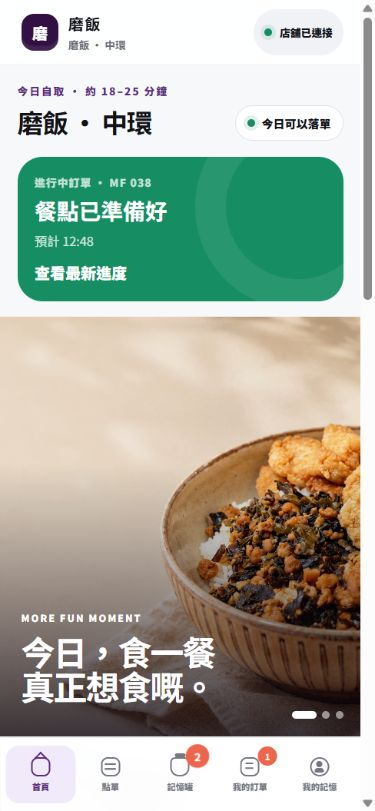
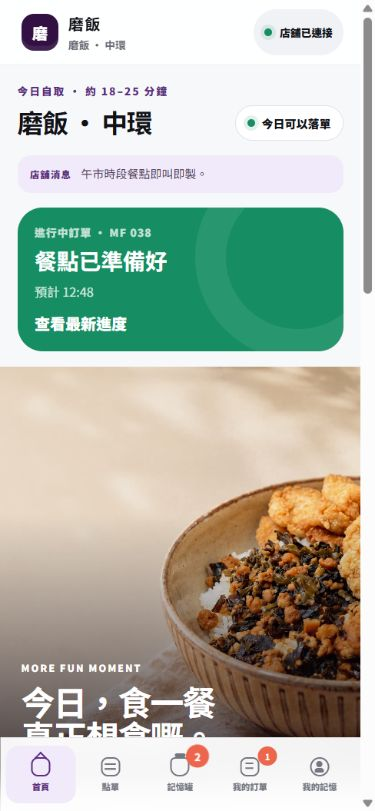
feat(customer): complete home notice and history controls

diff --git a/v2customer/src/styles.css b/v2customer/src/styles.css
@@ -105,6 +105,9 @@ img{display:block;max-width:100%}
 .availability-label{display:flex;align-items:center;gap:7px;background:var(--surface);border:1px solid var(--line);border-radius:999px;padding:9px 12px;font-size:12px;font-weight:850}
 .availability-label i{width:8px;height:8px;border-radius:50%;background:var(--danger)}
 .availability-label.open i{background:var(--green);box-shadow:0 0 0 4px rgba(22,141,99,.12)}
+.home-notice{display:flex;gap:10px;align-items:baseline;margin:-2px 0 15px;padding:11px 13px;border-radius:14px;background:var(--purple-soft)}
+.home-notice span{flex:0 0 auto;color:var(--purple);font-size:10px;font-weight:900;letter-spacing:.08em}
+.home-notice p{margin:0;color:#4f3b61;font-size:12px;line-height:1.45}
 .current-order-spotlight{width:100%;border:0;border-radius:var(--radius-lg);padding:18px;text-align:left;background:var(--purple-deep);color:#fff;margin-bottom:16px;display:grid;gap:5px;position:relative;overflow:hidden}
 .current-order-spotlight:after{content:"";position:absolute;width:150px;height:150px;border:32px solid rgba(255,255,255,.08);border-radius:50%;right:-60px;top:-55px}
 .current-order-spotlight span{font-size:11px;font-weight:850;letter-spacing:.08em;opacity:.74}
@@ -317,7 +320,7 @@ button:hover .product-media img{transform:scale(1.025)}
 .detail-row{display:flex;justify-content:space-between;border-top:1px solid var(--line);padding-top:13px}
 .history-card{background:var(--surface);border-radius:var(--radius-md);padding:15px;display:grid;grid-template-columns:58px 1fr;gap:12px}
 .history-date{border-right:1px solid var(--line);display:grid;align-content:center}.history-date strong{font-size:25px}.history-date span{font-size:9px;color:var(--muted)}
-.history-copy{display:grid;gap:4px;min-width:0}.history-copy small,.history-copy span{color:var(--muted)}.history-copy strong{font-size:16px;overflow-wrap:anywhere}.history-card .action-button{grid-column:1/-1}
+.history-copy{display:grid;gap:4px;min-width:0}.history-copy small,.history-copy span{color:var(--muted)}.history-copy strong{font-size:16px;overflow-wrap:anywhere}.history-actions{grid-column:1/-1;display:grid;grid-template-columns:auto 1fr;gap:8px}.history-actions>button:not(.action-button){border:0;background:transparent;color:var(--muted);min-height:44px;padding:0 10px;font-weight:800}.history-view-feedback{display:flex;align-items:center;justify-content:space-between;gap:12px;background:var(--green-soft);color:#285a47;border-radius:14px;padding:11px 13px;margin-bottom:10px;font-size:11px}.history-view-feedback button{border:0;background:transparent;color:var(--green);min-height:40px;font-weight:900}
 
 .member-page{padding-top:0}
 .member-hero{margin:0 -18px 28px;padding:44px 20px 26px;background:var(--purple-deep);color:#fff;min-height:320px;position:relative;overflow:hidden;display:flex;flex-direction:column;justify-content:flex-end}
@@ -371,7 +374,7 @@ button:hover .product-media img{transform:scale(1.025)}
 @keyframes skeleton{0%,100%{opacity:.46}50%{opacity:1}}
 
 @media(min-width:720px){
-  .page{padding:34px 28px 80px}.home-page{padding-top:24px}.app-header{height:74px}.collapsing-header{top:74px;margin:0 -28px;padding-left:28px;padding-right:28px}.hero-carousel{margin:0;border-radius:var(--radius-xl);overflow:hidden}.hero-slide{height:560px}.home-primary-action{margin:14px 0 0;border-radius:var(--radius-lg);grid-template-columns:1fr 260px;align-items:center}.featured-rail{margin:0;padding-left:0;padding-right:0}.featured-food{flex-basis:320px}.memory-ecosystem{margin-left:0;margin-right:0;border-radius:var(--radius-xl);padding:28px}.memory-ecosystem-grid{grid-template-columns:1.5fr repeat(3,1fr)}.memory-ecosystem-grid .ecosystem-jar{grid-column:auto}.product-list.layout-grid{grid-template-columns:repeat(3,minmax(0,1fr))}.product-card .product-media{height:220px}.cart-page{max-width:820px;margin:0 auto}.member-hero{margin-left:0;margin-right:0;border-radius:0 0 var(--radius-xl) var(--radius-xl);padding:54px 38px 34px}.seed-dashboard{grid-template-columns:1.2fr 1fr}.seed-history{grid-column:1/-1}.badge-collection{grid-template-columns:repeat(4,1fr)}.history-card{grid-template-columns:70px 1fr auto;align-items:center}.history-card .action-button{grid-column:auto}.dialog-surface{left:50%;right:auto;width:min(680px,100vw);transform:translate(-50%,var(--drag-y));border-radius:30px 30px 0 0}.dialog-surface[data-motion=origin]{transform:translate(calc(-50% + var(--origin-x)),var(--origin-y)) scale(var(--origin-scale))}.dialog-surface[data-motion=settled]{transform:translate(-50%,var(--drag-y))}.product-dialog.closing .dialog-surface{transform:translate(-50%,105%)}.product-sheet-hero{grid-template-columns:44% 1fr;align-items:stretch}.product-sheet-hero .product-media{height:300px}.product-sheet-copy{align-content:center}.choice-grid{grid-template-columns:repeat(3,1fr)}
+  .page{padding:34px 28px 80px}.home-page{padding-top:24px}.app-header{height:74px}.collapsing-header{top:74px;margin:0 -28px;padding-left:28px;padding-right:28px}.hero-carousel{margin:0;border-radius:var(--radius-xl);overflow:hidden}.hero-slide{height:560px}.home-primary-action{margin:14px 0 0;border-radius:var(--radius-lg);grid-template-columns:1fr 260px;align-items:center}.featured-rail{margin:0;padding-left:0;padding-right:0}.featured-food{flex-basis:320px}.memory-ecosystem{margin-left:0;margin-right:0;border-radius:var(--radius-xl);padding:28px}.memory-ecosystem-grid{grid-template-columns:1.5fr repeat(3,1fr)}.memory-ecosystem-grid .ecosystem-jar{grid-column:auto}.product-list.layout-grid{grid-template-columns:repeat(3,minmax(0,1fr))}.product-card .product-media{height:220px}.cart-page{max-width:820px;margin:0 auto}.member-hero{margin-left:0;margin-right:0;border-radius:0 0 var(--radius-xl) var(--radius-xl);padding:54px 38px 34px}.seed-dashboard{grid-template-columns:1.2fr 1fr}.seed-history{grid-column:1/-1}.badge-collection{grid-template-columns:repeat(4,1fr)}.history-card{grid-template-columns:70px 1fr auto;align-items:center}.history-actions{grid-column:auto}.dialog-surface{left:50%;right:auto;width:min(680px,100vw);transform:translate(-50%,var(--drag-y));border-radius:30px 30px 0 0}.dialog-surface[data-motion=origin]{transform:translate(calc(-50% + var(--origin-x)),var(--origin-y)) scale(var(--origin-scale))}.dialog-surface[data-motion=settled]{transform:translate(-50%,var(--drag-y))}.product-dialog.closing .dialog-surface{transform:translate(-50%,105%)}.product-sheet-hero{grid-template-columns:44% 1fr;align-items:stretch}.product-sheet-hero .product-media{height:300px}.product-sheet-copy{align-content:center}.choice-grid{grid-template-columns:repeat(3,1fr)}
 }
 
 @media(min-width:1060px){.product-list.layout-grid{grid-template-columns:repeat(4,minmax(0,1fr))}.bottom-navigation{border-radius:22px 22px 0 0;box-shadow:0 -10px 35px rgba(20,20,25,.08)}}

diff --git a/v2customer/src/components/customer-views.tsx b/v2customer/src/components/customer-views.tsx
@@ -97,6 +97,7 @@ export function HomeView({snapshot,connection,activeOrders,history,featuredProdu
       <div><span className="eyebrow">今日自取 · {store?.etaLabel??'時間待店舖確認'}</span><h1>{store?.storeName??'磨飯'}</h1></div>
       <div className={`availability-label ${store?.channelAvailable?'open':'closed'}`}><i aria-hidden="true"/><span>{store?store.channelAvailable?'今日可以落單':'今日暫停落單':'等待店舖資料'}</span></div>
     </header>
+    {store?.notice?<section className="home-notice" role="status"><span>店舖消息</span><p>{store.notice}</p></section>:null}
 
     {currentOrder?<button className={`current-order-spotlight stage-${currentOrder.stage.toLowerCase()}`} onClick={onOrders}>
       <span>進行中訂單 · {currentOrder.displayCode}</span>
@@ -197,10 +198,22 @@ export function CheckoutView({cart,quote,checkout,setCheckout,pending,actionStat
 export function OrdersView({segment,setSegment,active,history,expandedOrderId,setExpandedOrderId,onReorder,onBrowse,connection}:{
   segment:OrderSegment;setSegment:(v:OrderSegment)=>void;active:readonly CustomerOrderProjection[];history:readonly CustomerHistoryProjection[];expandedOrderId:string|null;setExpandedOrderId:(v:string|null)=>void;onReorder:(order:CustomerHistoryProjection)=>void;onBrowse:()=>void;connection:CustomerConnectionState;
 }){
+  const [hiddenHistoryIds,setHiddenHistoryIds]=useState<readonly string[]>([]);
+  const [lastHiddenId,setLastHiddenId]=useState<string|null>(null);
+  const visibleHistory=history.filter(order=>!hiddenHistoryIds.includes(order.orderId));
+  const hideFromView=(orderId:string)=>{
+    setHiddenHistoryIds(ids=>[...ids,orderId]);
+    setLastHiddenId(orderId);
+  };
+  const undoHide=()=>{
+    if(!lastHiddenId)return;
+    setHiddenHistoryIds(ids=>ids.filter(id=>id!==lastHiddenId));
+    setLastHiddenId(null);
+  };
   return <section className="page orders-page">
     <PageIntro kicker="我的訂單" title={segment==='current'?'而家去到邊？':'食過嘅，都收得好好'} detail={segment==='current'?'收到、接單、製作、可取餐與交收會按正式狀態逐步更新。':'歷史只係回憶；再次下單會按目前菜單重新驗證。'}/>
     <div className="segmented" role="tablist" aria-label="訂單類別"><button role="tab" aria-selected={segment==='current'} className={segment==='current'?'active':''} onClick={()=>setSegment('current')}>進行中</button><button role="tab" aria-selected={segment==='history'} className={segment==='history'?'active':''} onClick={()=>setSegment('history')}>歷史訂單</button></div>
-    {segment==='current'?(!active.length?<EmptyState title={connection==='NOT_CONNECTED'?'訂單服務尚未連接':'暫時冇進行中訂單'} detail={connection==='NOT_CONNECTED'?'連接後會顯示店舖正式接單同製作進度。':'點餐後，最新進度會喺呢度。'}><ActionButton onClick={onBrowse}>開始點餐</ActionButton></EmptyState>:<div className="active-order-list">{active.map(order=><OrderCard key={order.orderId} order={order} expanded={expandedOrderId===order.orderId} onToggle={()=>setExpandedOrderId(expandedOrderId===order.orderId?null:order.orderId)}/>)}</div>):(!history.length?<EmptyState title={connection==='NOT_CONNECTED'?'歷史訂單尚未連接':'仲未有完成訂單'} detail={connection==='NOT_CONNECTED'?'連接後只會顯示正式完成嘅訂單。':'完成第一張訂單後，就可以喺呢度再次回味。'}/>:<div className="history-list">{history.map(order=><article className="history-card" key={order.orderId}><div className="history-date"><strong>{new Date(order.completedAt).toLocaleDateString('zh-HK',{day:'2-digit'})}</strong><span>{new Date(order.completedAt).toLocaleDateString('zh-HK',{month:'short',year:'numeric'})}</span></div><div className="history-copy"><small>{order.displayCode}</small><strong>{order.itemSummary}</strong><span>{order.amountLabel??'歷史價格未提供'}</span></div><ActionButton variant="secondary" disabled={!order.reorderEligible} onClick={()=>onReorder(order)}>{order.reorderEligible?'再次下單':'目前不可重建'}</ActionButton></article>)}</div>)}
+    {segment==='current'?(!active.length?<EmptyState title={connection==='NOT_CONNECTED'?'訂單服務尚未連接':'暫時冇進行中訂單'} detail={connection==='NOT_CONNECTED'?'連接後會顯示店舖正式接單同製作進度。':'點餐後，最新進度會喺呢度。'}><ActionButton onClick={onBrowse}>開始點餐</ActionButton></EmptyState>:<div className="active-order-list">{active.map(order=><OrderCard key={order.orderId} order={order} expanded={expandedOrderId===order.orderId} onToggle={()=>setExpandedOrderId(expandedOrderId===order.orderId?null:order.orderId)}/>)}</div>):(!history.length?<EmptyState title={connection==='NOT_CONNECTED'?'歷史訂單尚未連接':'仲未有完成訂單'} detail={connection==='NOT_CONNECTED'?'連接後只會顯示正式完成嘅訂單。':'完成第一張訂單後，就可以喺呢度再次回味。'}/>:<>{lastHiddenId?<section className="history-view-feedback" role="status"><span>已從今次檢視收起；正式訂單紀錄冇被刪除。</span><button onClick={undoHide}>復原</button></section>:null}{visibleHistory.length?<div className="history-list">{visibleHistory.map(order=><article className="history-card" key={order.orderId}><div className="history-date"><strong>{new Date(order.completedAt).toLocaleDateString('zh-HK',{day:'2-digit'})}</strong><span>{new Date(order.completedAt).toLocaleDateString('zh-HK',{month:'short',year:'numeric'})}</span></div><div className="history-copy"><small>{order.displayCode}</small><strong>{order.itemSummary}</strong><span>{order.amountLabel??'歷史價格未提供'}</span></div><div className="history-actions"><button onClick={()=>hideFromView(order.orderId)}>今次收起</button><ActionButton variant="secondary" disabled={!order.reorderEligible} onClick={()=>onReorder(order)}>{order.reorderEligible?'再次下單':'目前不可重建'}</ActionButton></div></article>)}</div>:<EmptyState compact title="今次檢視已經收起全部歷史" detail="正式訂單紀錄冇被刪除；可以復原最近一次操作。"><ActionButton variant="secondary" onClick={undoHide}>復原最近一項</ActionButton></EmptyState>}</>)}
   </section>;
 }
 

diff --git a/v2customer/docs/R2-ACCEPTANCE.md b/v2customer/docs/R2-ACCEPTANCE.md
@@ -9,7 +9,7 @@
 | Product | Complete one choice group at a time | Add/update Memory Jar | Inline required/min/max/unavailable repair, back step, dismiss |
 | Memory Jar | Review and repair the current intent | Final review | Per-line edit/remove, add more, material-change repair |
 | Checkout | Confirm contact, quote and submit once | Wait for store result | UNKNOWN readback of the same intent, no blind resend |
-| My Orders | Understand canonical fulfillment | Pickup or inspect history | Rejected/delayed/unknown states, detail timeline |
+| My Orders | Understand canonical fulfillment | Pickup or inspect history | Rejected/delayed/unknown states, detail timeline, local-only hide with undo |
 | My Memory | Review the relationship and return | Buy again or start order | Per-module empty/loading/error/stale/disconnected states |
 
 ## Golden Path
@@ -63,7 +63,7 @@ Executed against the isolated `visual-acceptance.html` runtime harness. The harn
 | Checkout | Item count, official quote status, separated pickup contact and unique submit action rendered. |
 | Pending / UNKNOWN | Same-position transaction surface changed to “正在確認訂單結果”; only readback action remained. |
 | Current Order / Ready | Canonical tracker rendered; pickup code was the Ready focal point with arrival/verification/handover separation. |
-| History | Immutable history cards and current-menu rebuild action rendered. |
+| History | Immutable history cards, local-only hide/undo and current-menu rebuild action rendered. Hiding never deletes the formal record. |
 | Member / Seeds / Coupons / Badges | Connected collections rendered from the test runtime; production-without-port rendered honest waiting-for-data states. |
 | iPhone | 390 × 844 acceptance completed. |
 | Android | 412 × 915 acceptance completed. |
